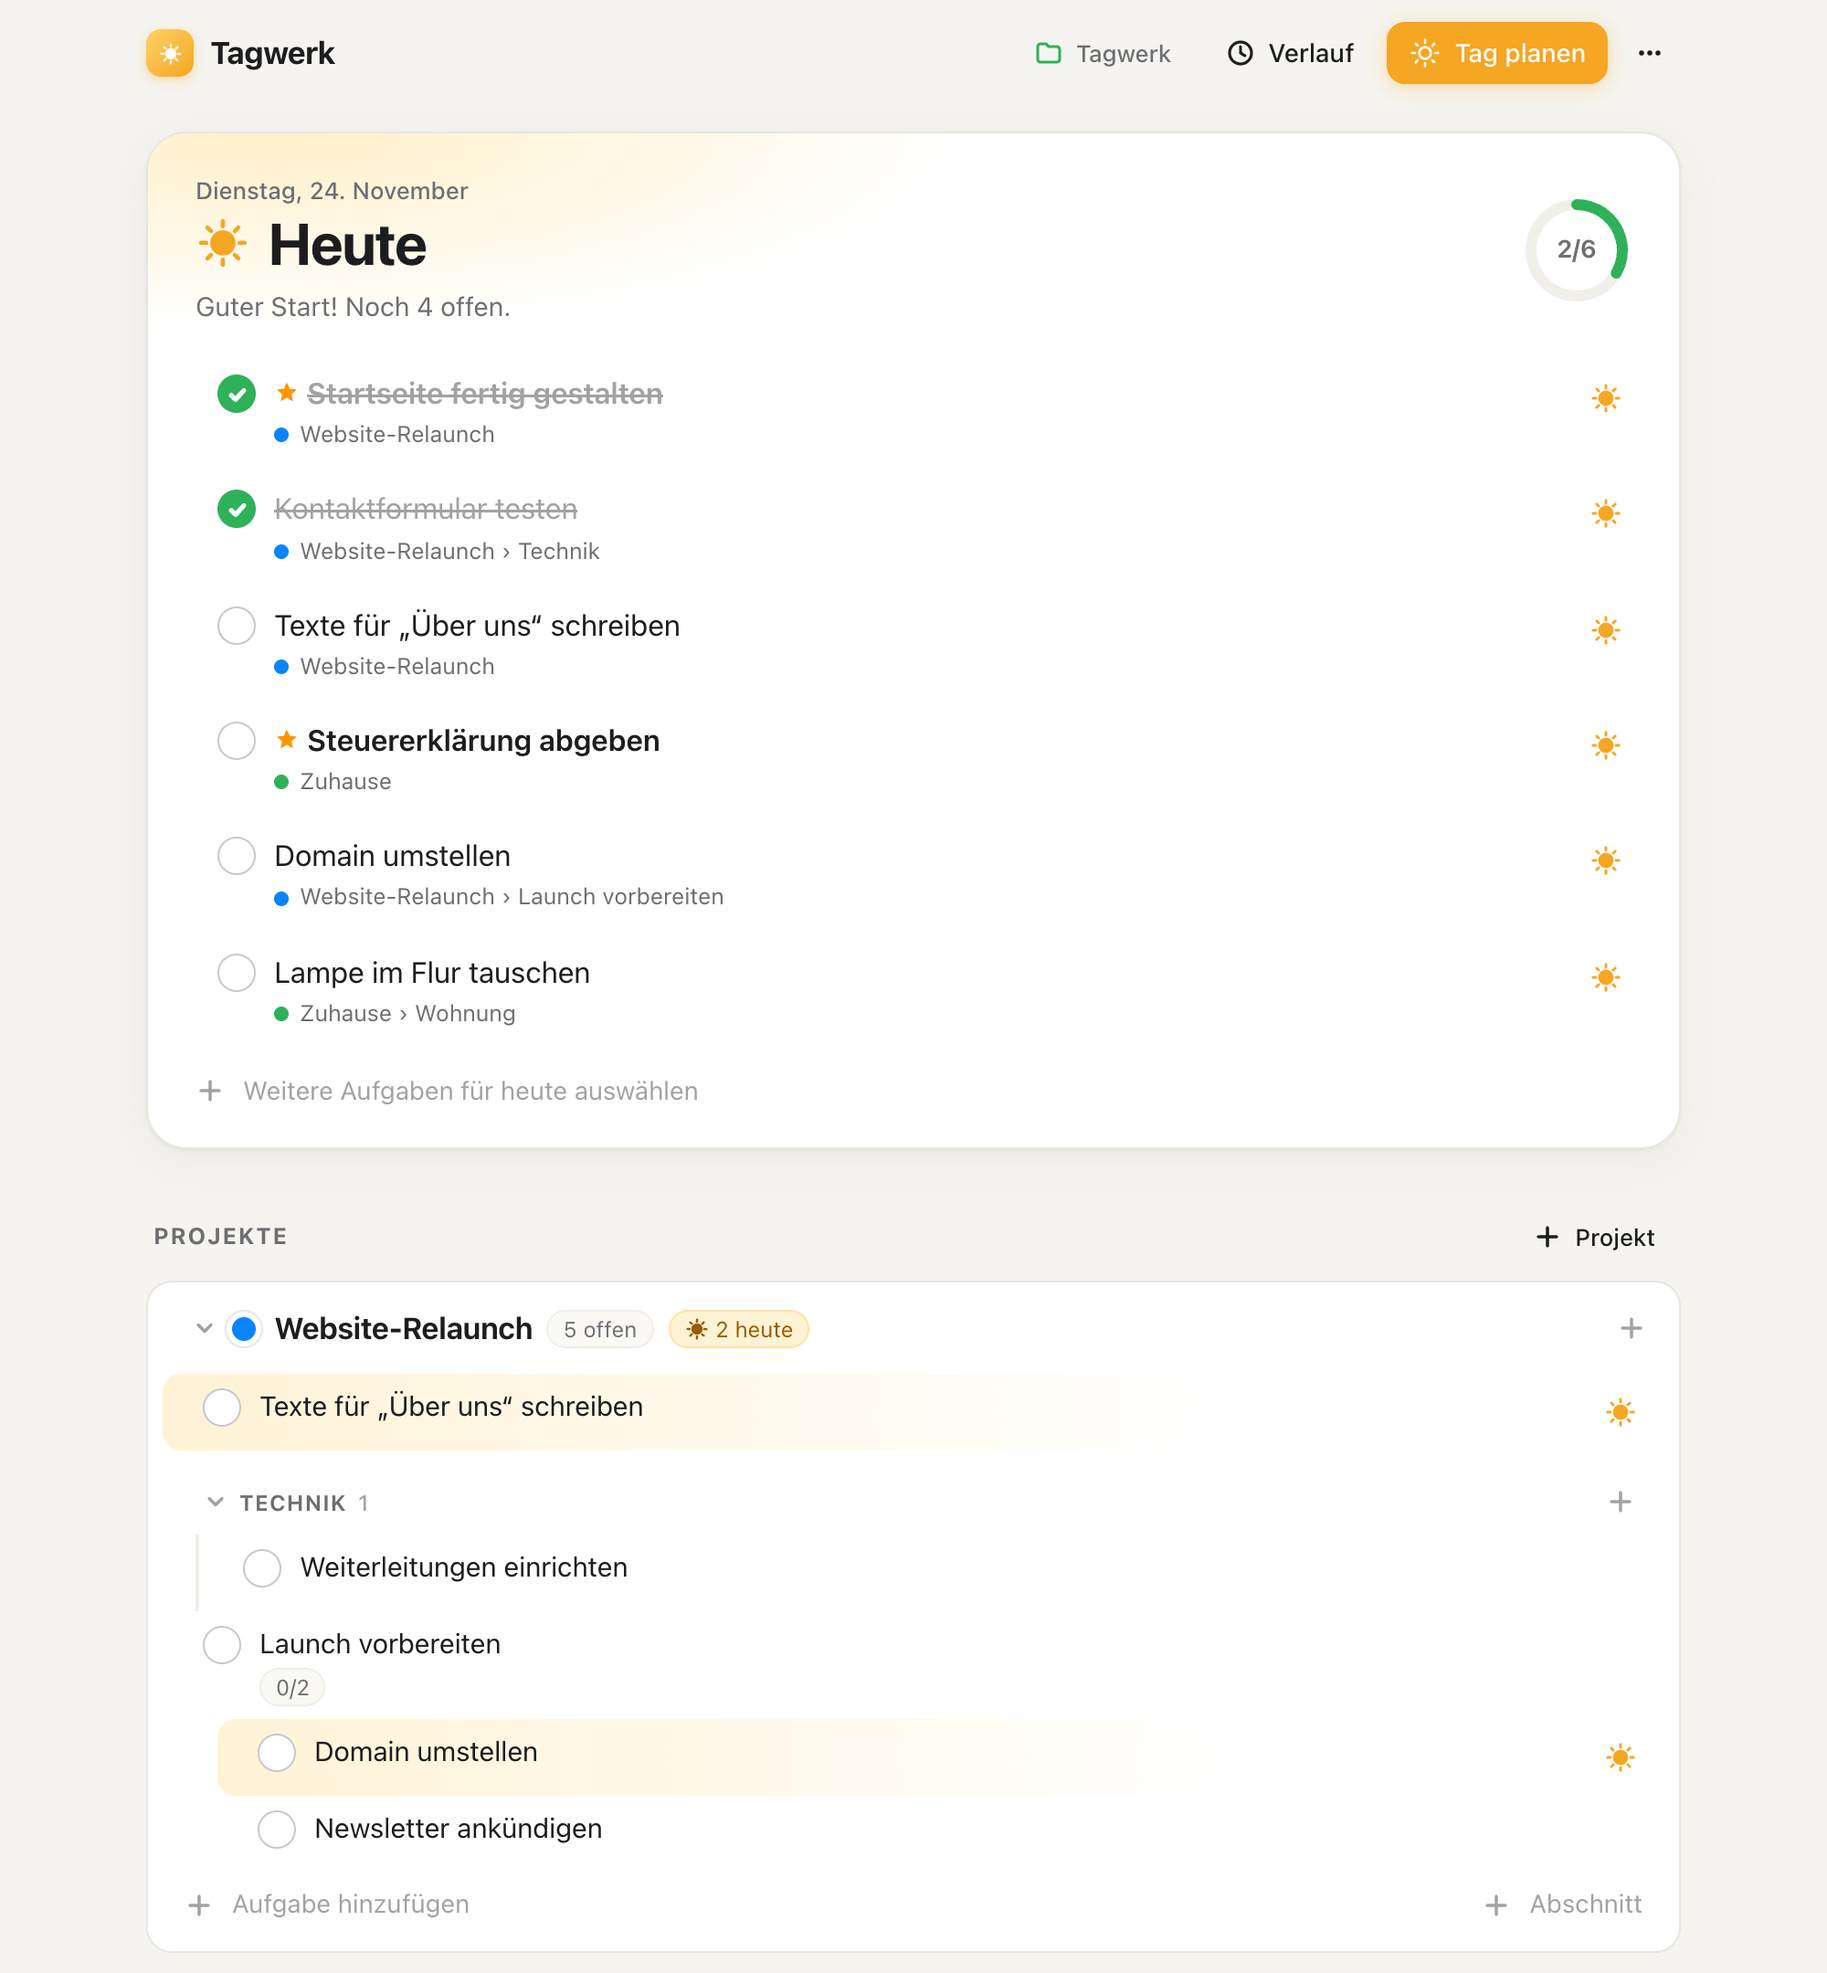
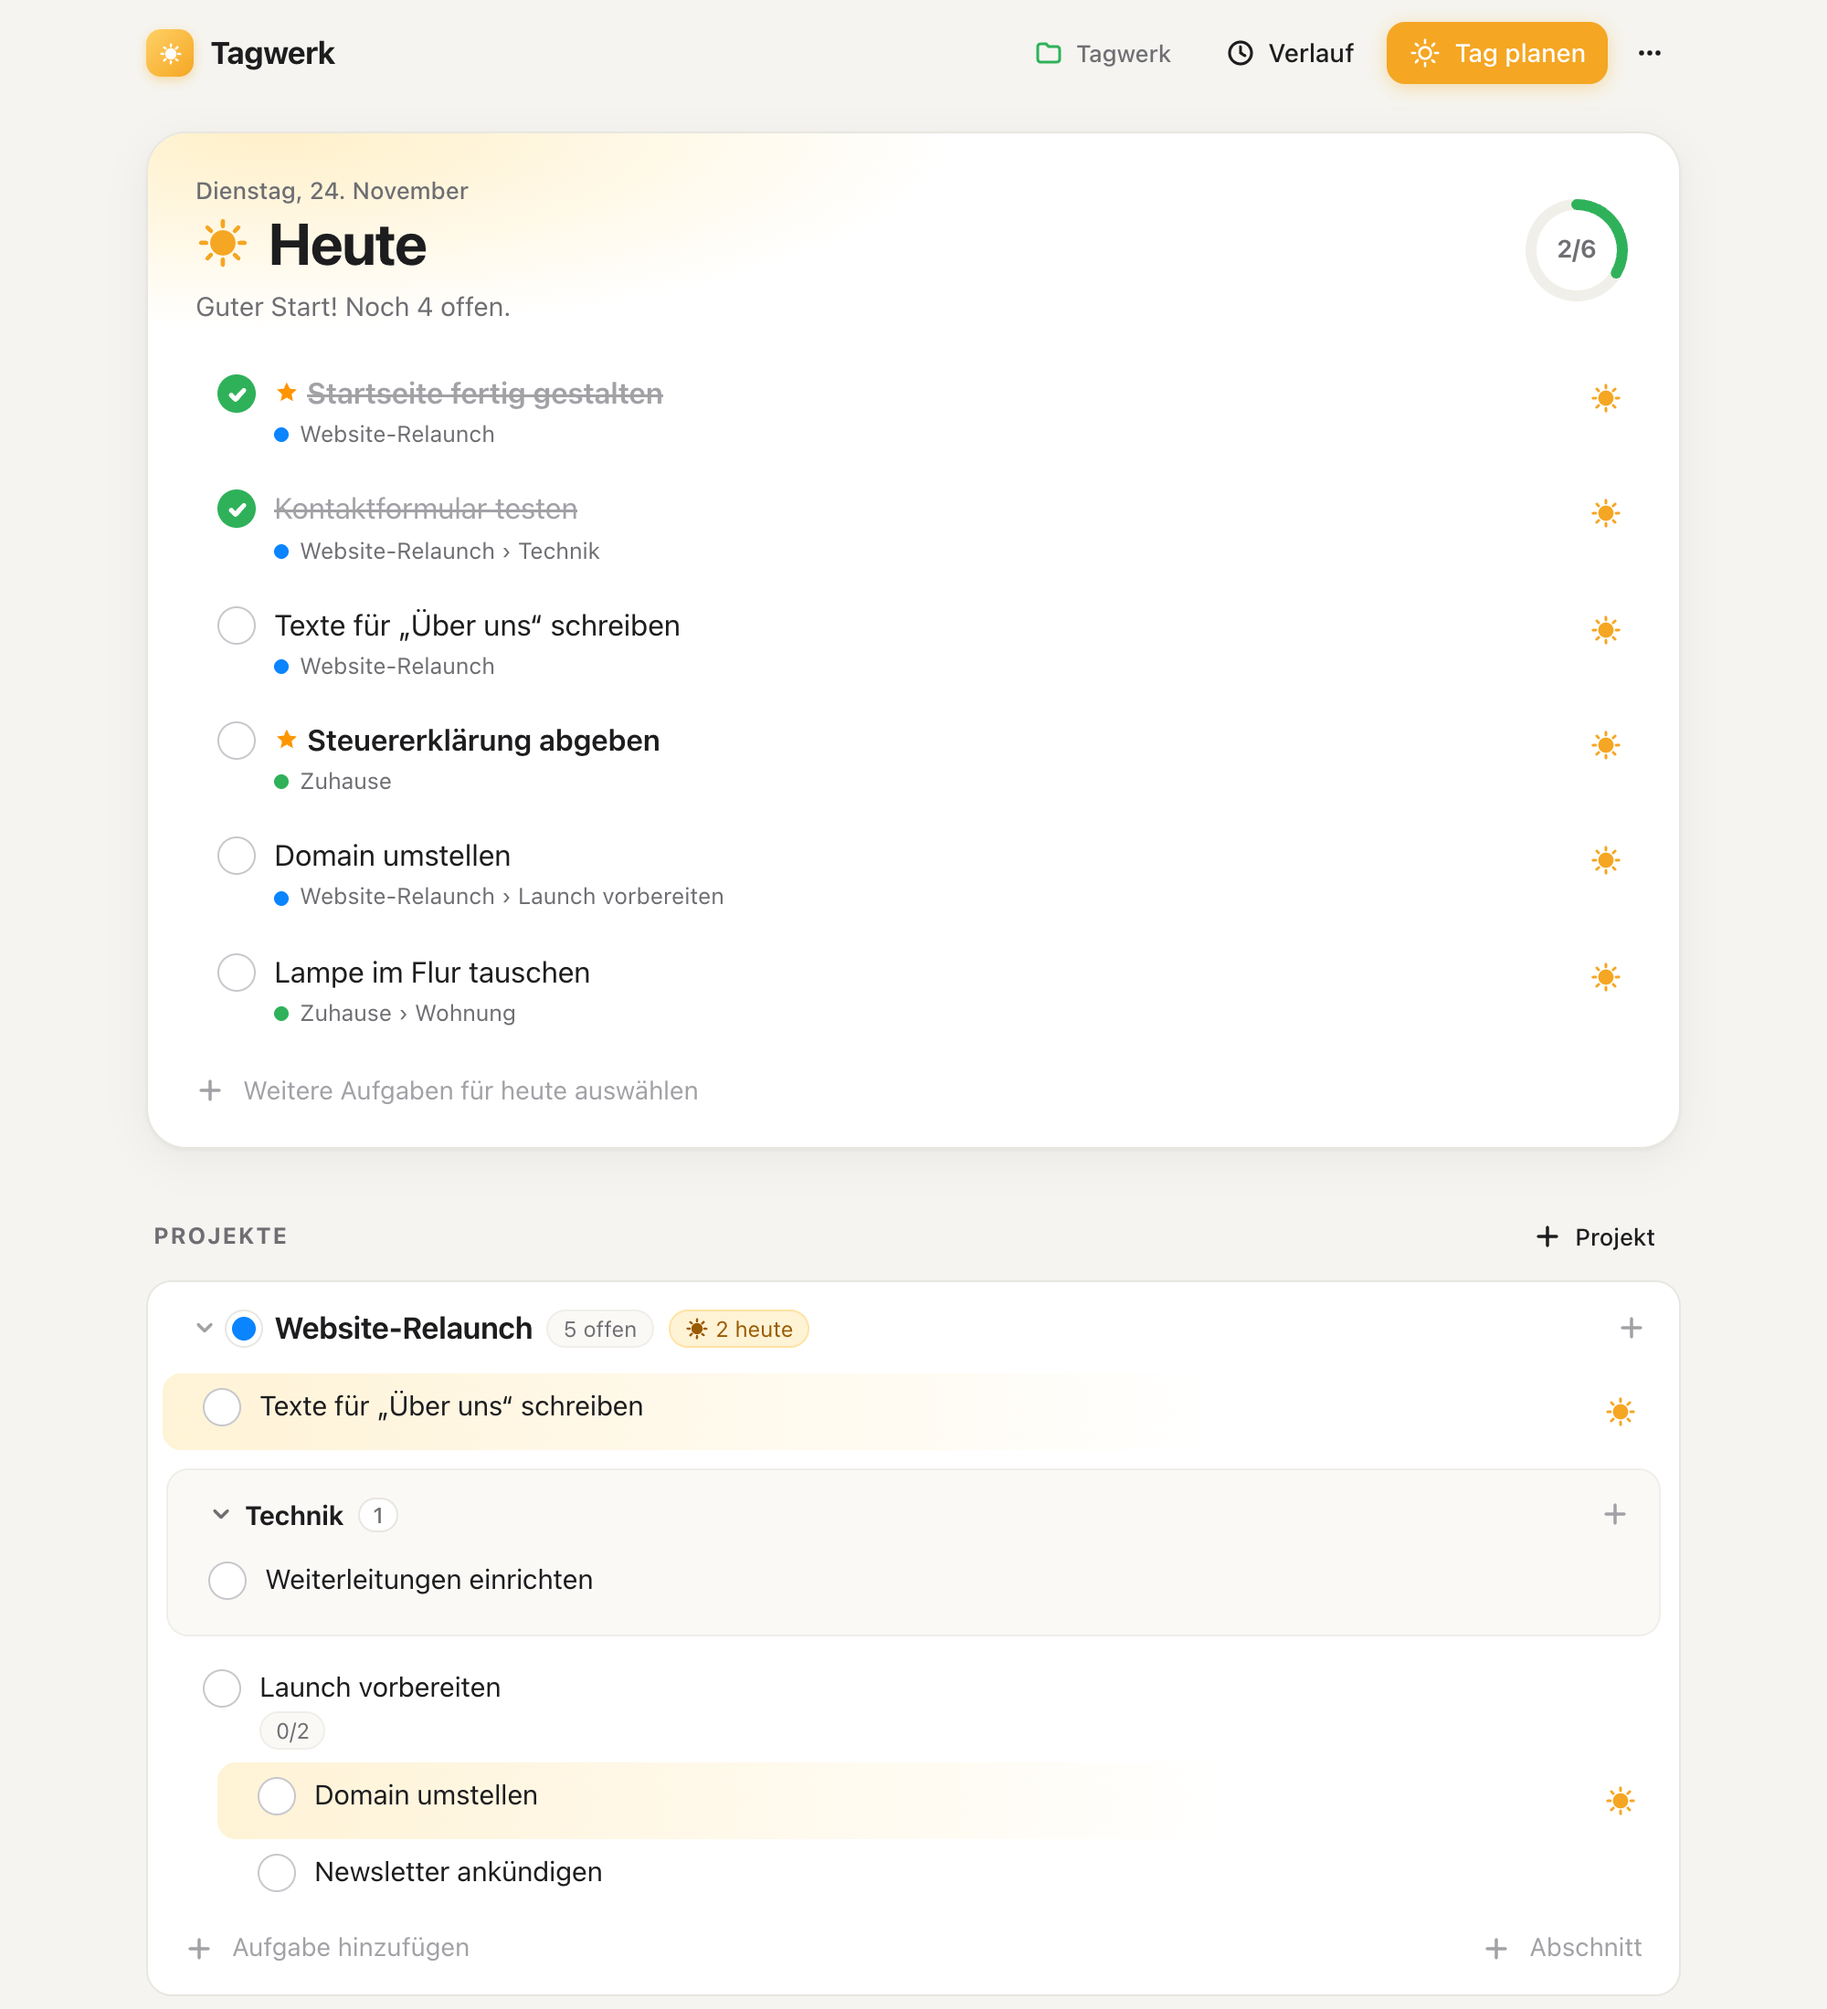
Abschnitte als eigene Fläche darstellen
Abschnitte bekommen eine leicht getönte, abgerundete Fläche mit normaler, fetter Überschrift statt grauer Großbuchstaben. Die Anzahl steht in einem Kreis, die Einrückung mit Linie links entfällt. So ist auch bei losen Aufgaben zwischen Abschnitten klar, wo ein Abschnitt endet. Screenshot im README neu aufgenommen.

diff --git a/public/app.css b/public/app.css
@@ -137,18 +137,21 @@ kbd{font:11px/1 ui-monospace,SFMono-Regular,Menlo,monospace;padding:3px 5px;bord
 .sw{width:24px;height:24px;border-radius:50%;transition:transform .12s}
 .sw:hover{transform:scale(1.15)}
 .sw.on{box-shadow:0 0 0 2px #fff,0 0 0 4px var(--text)}
-.section{margin-top:4px}
-.s-head{display:flex;align-items:center;gap:6px;padding:10px 10px 4px 14px;font-size:12px;font-weight:650;letter-spacing:.05em;text-transform:uppercase;color:var(--muted);cursor:pointer;user-select:none}
+/* Abschnitt: ruhige Fläche innerhalb des Projekts – Anfang und Ende auf einen Blick */
+.section{background:var(--surface-2);border:1px solid var(--line-2);border-radius:12px;margin:10px 2px;padding:2px 0 6px}
+.section.collapsed{padding-bottom:2px}
+.s-head{display:flex;align-items:center;gap:6px;padding:8px 10px 4px 14px;font-size:14.5px;font-weight:650;letter-spacing:-.005em;color:var(--text);cursor:pointer;user-select:none;border-radius:10px}
+.section.collapsed .s-head{padding-bottom:8px}
+.s-head .chev{color:var(--muted)}
 .s-head .handle{margin-top:0}
-.s-head{border-radius:8px;margin-top:2px}
 .s-head.focus{background:var(--focus-soft);box-shadow:inset 0 0 0 1.5px rgba(10,132,255,.35)}
 .s-title{cursor:text;min-width:3ch}
-.s-head .edit{text-transform:none;letter-spacing:0;font-size:14px;color:var(--text);flex:1}
+.s-head .edit{font-size:14.5px;font-weight:650;color:var(--text);flex:1}
+.section .row:hover{background:#f3f1ec}
 .addrows{display:flex;gap:4px}
 .addrows .addrow:first-child{flex:1}
 .addrows .addrow.sec{width:auto;white-space:nowrap}
-.s-count{font-weight:500;color:var(--faint)}
-.s-body{border-left:2px solid var(--line-2);margin-left:18px;padding-left:2px}
+.s-count{font-size:12px;font-weight:500;color:var(--muted);background:var(--surface);border:1px solid var(--line);border-radius:999px;padding:0 7px;margin-left:2px}
 .subs{margin-left:30px}
 .addrow{display:flex;align-items:center;gap:10px;width:100%;padding:7px 12px;color:var(--faint);font-size:14px;border-radius:10px;text-align:left}
 .addrow:hover{color:var(--text);background:var(--surface-2)}
